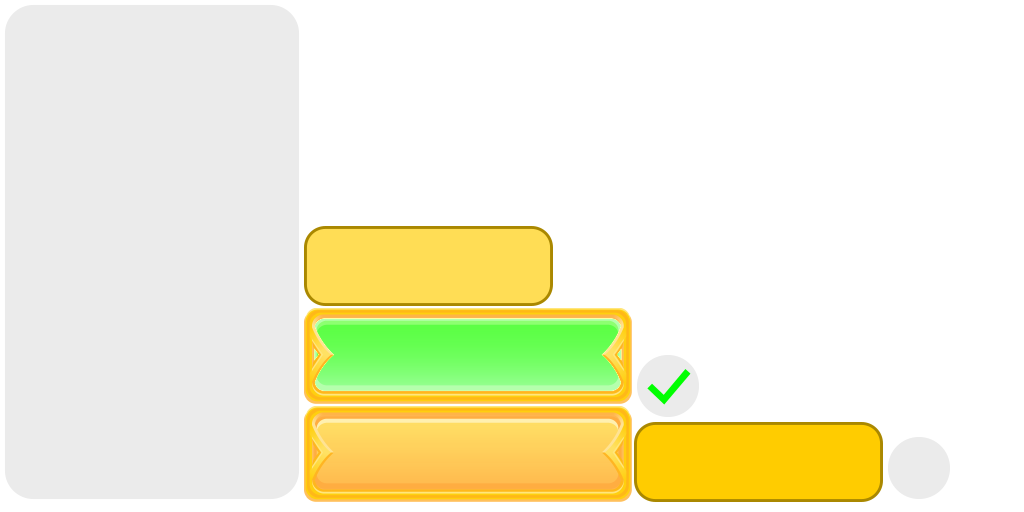
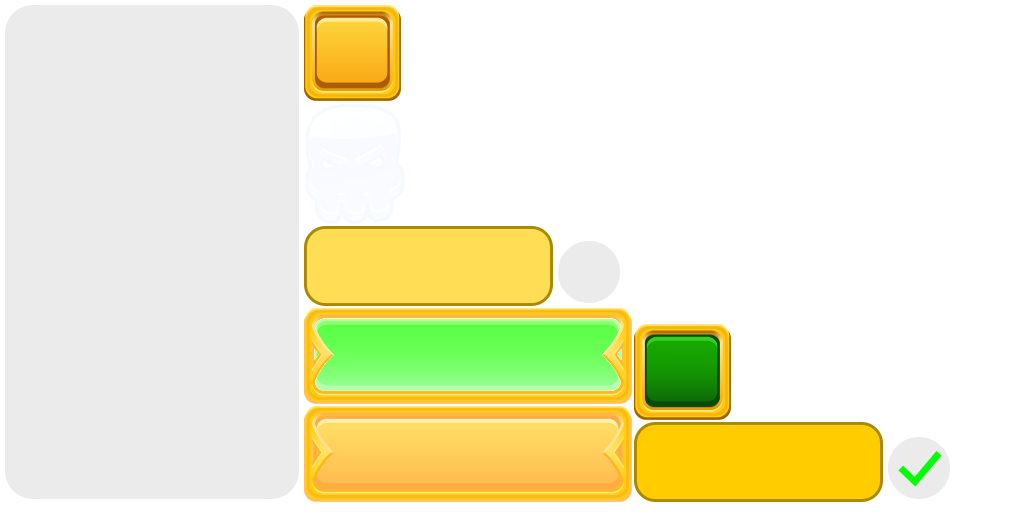
Addd Imagebutton style.

diff --git a/core/src/main/java/com/axehigh/game/poc/menu/MenuScreen.java b/core/src/main/java/com/axehigh/game/poc/menu/MenuScreen.java
@@ -6,11 +6,12 @@ import com.axehigh.game.poc.menu.util.MyLog;
 import com.badlogic.gdx.Gdx;
 import com.badlogic.gdx.graphics.Texture;
 import com.badlogic.gdx.scenes.scene2d.Actor;
+import com.badlogic.gdx.scenes.scene2d.ui.ImageButton;
 import com.badlogic.gdx.scenes.scene2d.ui.Skin;
 import com.badlogic.gdx.scenes.scene2d.ui.Table;
 import com.badlogic.gdx.scenes.scene2d.ui.TextButton;
 import com.badlogic.gdx.scenes.scene2d.utils.ChangeListener;
-import com.badlogic.gdx.utils.Logger;
+import com.badlogic.gdx.scenes.scene2d.utils.TextureRegionDrawable;
 
 /**
  * Created by goran on 1/09/2016.
@@ -67,6 +68,9 @@ public class MenuScreen extends MenuScreenBase {
             }
         });
 
+
+        ImageButton imageButton = new ImageButton(uiskin);
+
         // setup table
         Table buttonTable = new Table(uiskin);
         buttonTable.defaults().pad(20);
@@ -76,6 +80,7 @@ public class MenuScreen extends MenuScreenBase {
         buttonTable.add(highScoreButton).row();
         buttonTable.add(optionsButton).row();
         buttonTable.add(quitButton);
+        buttonTable.add(imageButton);
 
         buttonTable.center();
 

diff --git a/core/src/main/java/com/axehigh/game/poc/menu/assets/RegionNames.java b/core/src/main/java/com/axehigh/game/poc/menu/assets/RegionNames.java
@@ -5,4 +5,5 @@ public class RegionNames {
     // == ui.atlas ==
     public static final String PANEL = "panel";
 
+    public static final String iconSkuld = "icon-skull";
 }
